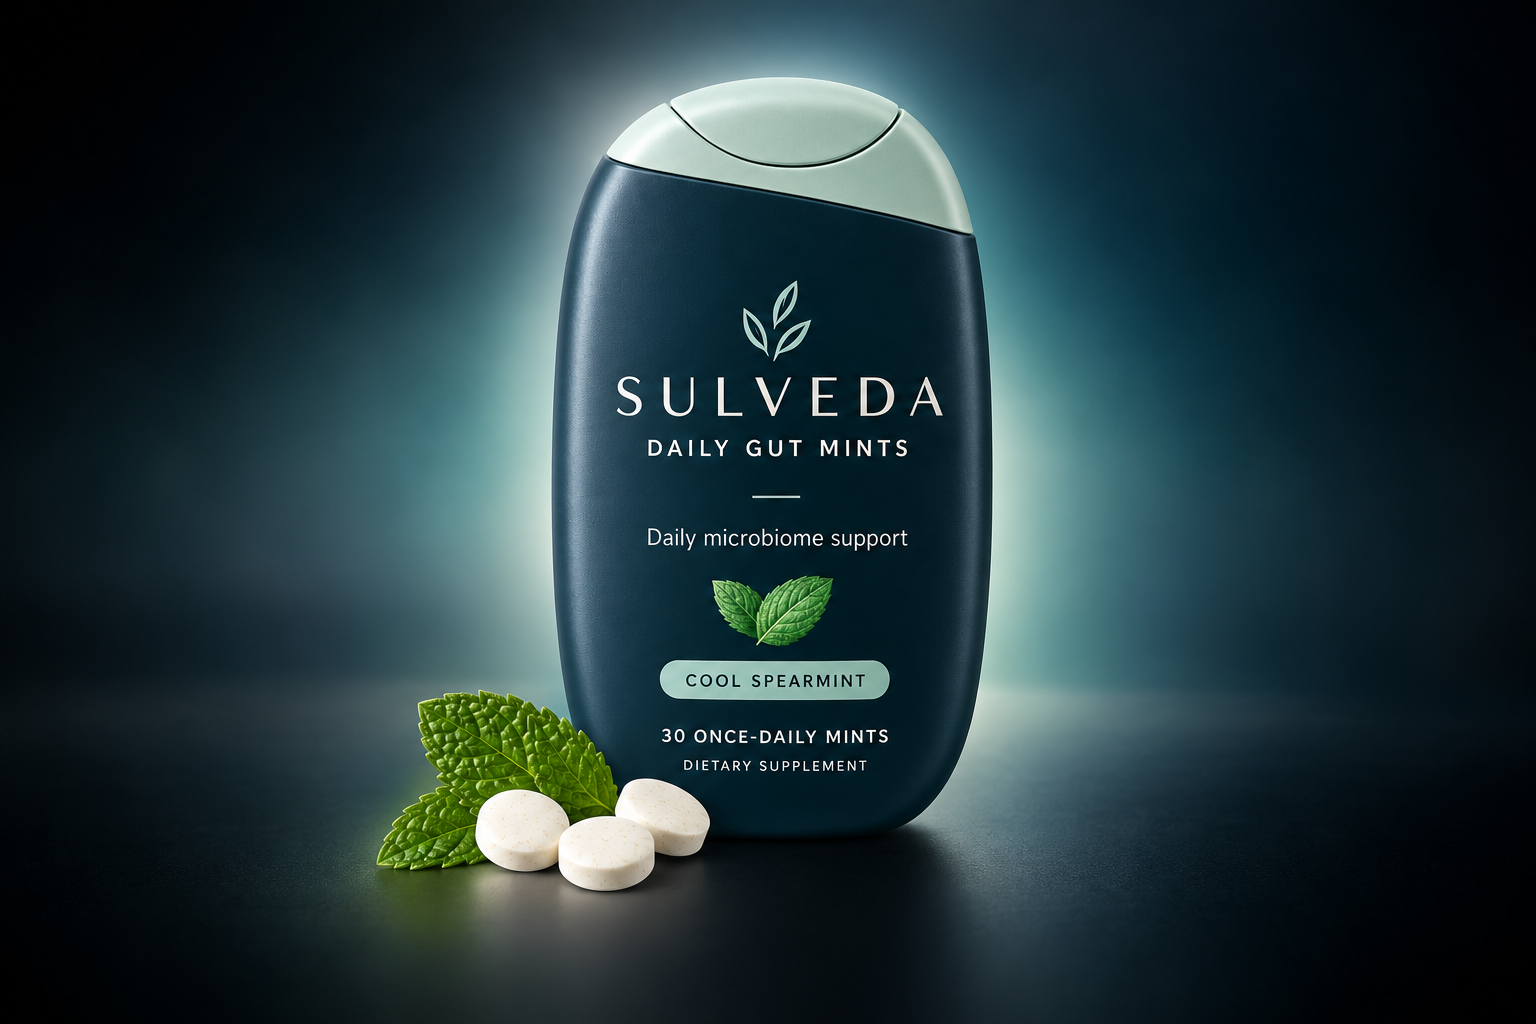
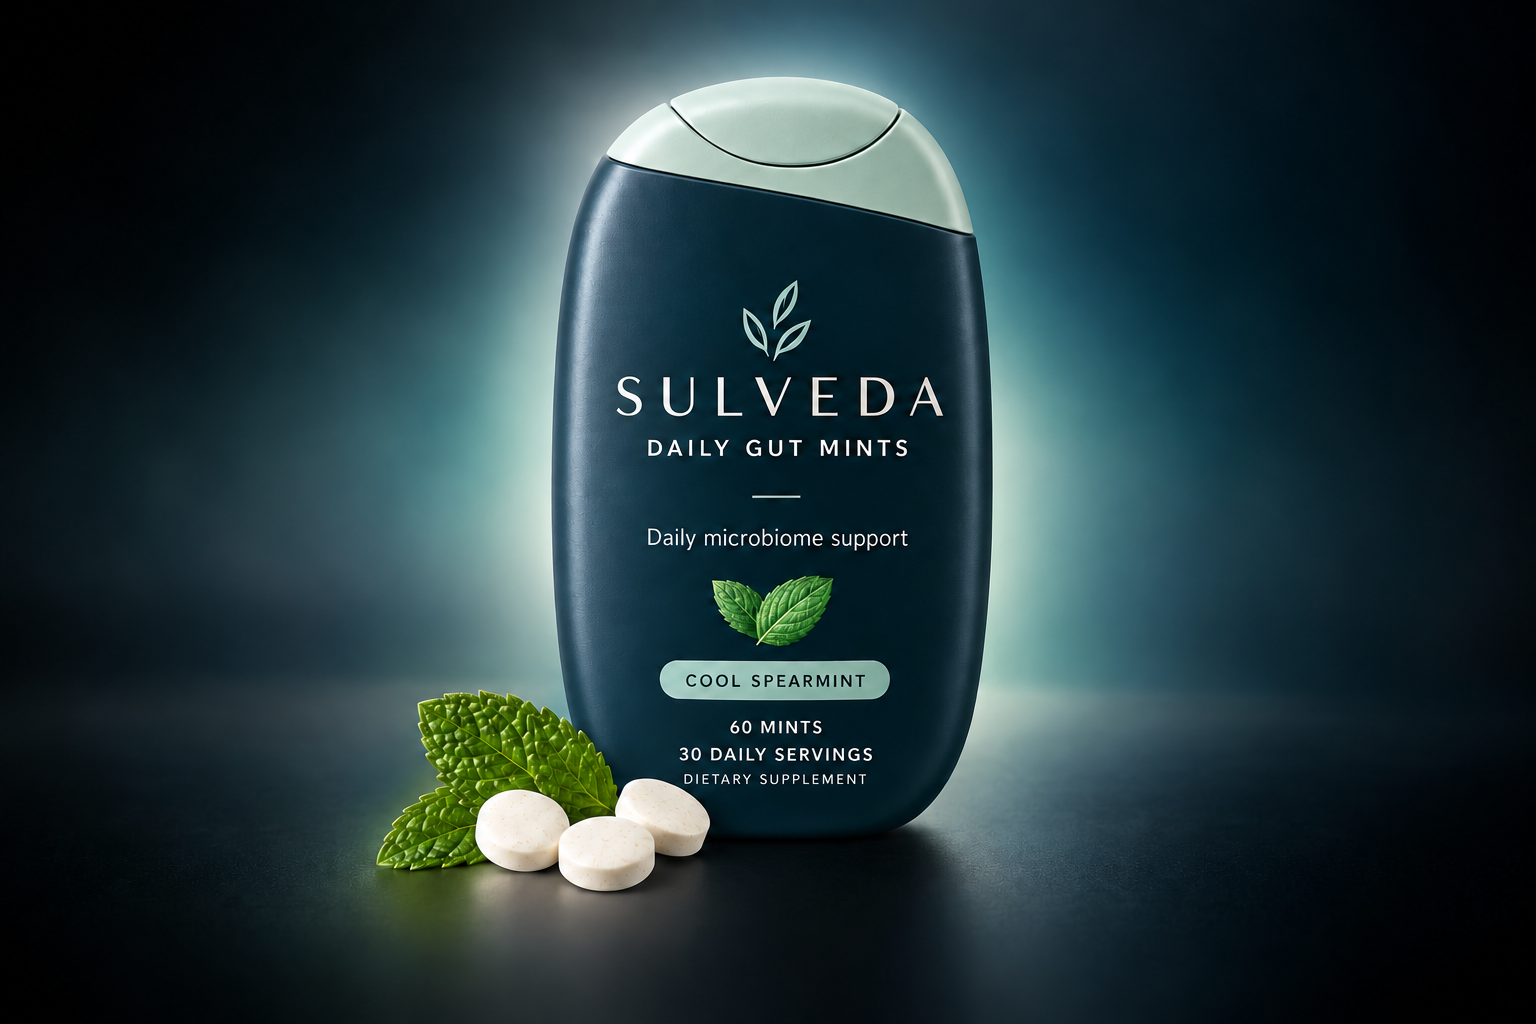
Update Daily Gut Mints to two-per-day serving

Changed region(s): [[0.25, 0.6875, 0.375, 0.8438], [0.4375, 0.6562, 0.5625, 0.7812], [0.4688, 0.5625, 0.5312, 0.625]]

diff --git a/index.html b/index.html
@@ -47,14 +47,14 @@
     <section class="hero" id="top">
       <div class="hero-copy reveal">
         <p class="eyebrow">The pocket-sized gut ritual</p>
-        <h1>A smarter gut habit.<br><em>One mint a day.</em></h1>
+        <h1>A smarter gut habit.<br><em>Two mints a day.</em></h1>
         <p class="hero-lede">Sulveda is developing a fresh-tasting daily mint around targeted microbiome science - designed for people who want gut support without another capsule, powder, or gummy.</p>
         <div class="hero-actions">
           <a class="button button-primary" href="#founders">Join the founding list</a>
           <a class="quiet-link" href="#product">Explore the concept <span aria-hidden="true">&darr;</span></a>
         </div>
         <div class="hero-details" aria-label="Product concept highlights">
-          <span>Once-daily concept</span>
+          <span>2-mint daily serving</span>
           <span>Cool Spearmint</span>
           <span>Pocket dispenser</span>
         </div>
@@ -84,10 +84,10 @@
         <article class="product-story reveal">
           <p class="product-kicker">Daily Gut Mints - Concept 02</p>
           <h3>The ease of a mint.<br>The discipline of a supplement.</h3>
-          <p>The lead concept is one small, swallowed, fast-dissolving tablet. It borrows the convenience and fresh-mouth reward of gum and functional pouches while preserving a path toward a complete, controlled gut-directed dose.</p>
+          <p>The lead concept is a two-mint daily serving of small, swallowed, fast-dissolving tablets. It borrows the convenience and fresh-mouth reward of gum and functional pouches while preserving a path toward a complete, controlled gut-directed dose.</p>
           <ul class="check-list">
-            <li><span>01</span> One clearly defined daily serving</li>
-            <li><span>02</span> One distinctive 30-count pocket dispenser</li>
+            <li><span>01</span> One clearly defined serving of two mints</li>
+            <li><span>02</span> One distinctive 60-count pocket dispenser</li>
             <li><span>03</span> A fresh-mouth experience that rewards the habit</li>
             <li><span>04</span> Targeted microbiome formulation direction</li>
           </ul>
@@ -96,8 +96,8 @@
         <aside class="ritual-card reveal">
           <p class="eyebrow">The daily experience</p>
           <div class="mint-orbit" aria-hidden="true"><i></i><span>S</span></div>
-          <div class="ritual-time"><strong>1</strong><span>mint to anchor a simple daily ritual</span></div>
-          <p>Open. Enjoy. Swallow. Keep moving.</p>
+          <div class="ritual-time"><strong>2</strong><span>mints to anchor a simple daily ritual</span></div>
+          <p>Open. Take two. Keep moving.</p>
         </aside>
       </div>
     </section>
@@ -114,7 +114,7 @@
           <article><span>01</span><strong>See it</strong><p>A distinctive dispenser stands apart at checkout without looking like candy.</p></article>
           <article><span>02</span><strong>Try it</strong><p>Fresh spearmint gives the ritual an immediate sensory reward.</p></article>
           <article><span>03</span><strong>Carry it</strong><p>The pocket format stays visible in the moments when habits happen.</p></article>
-          <article><span>04</span><strong>Repeat it</strong><p>One mint each day creates a clear replenishment rhythm.</p></article>
+          <article><span>04</span><strong>Repeat it</strong><p>Two mints each day create a clear replenishment rhythm.</p></article>
         </div>
       </div>
     </section>
@@ -128,10 +128,10 @@
       <div class="dispenser-spec reveal">
         <div class="spec-visual" aria-hidden="true"><span>S</span></div>
         <dl>
-          <div><dt>Count</dt><dd>30 once-daily mints</dd></div>
+          <div><dt>Count</dt><dd>60 mints / 30 daily servings</dd></div>
           <div><dt>Working flavor</dt><dd>Cool Spearmint</dd></div>
           <div><dt>Position</dt><dd>Daily microbiome support</dd></div>
-          <div><dt>Format</dt><dd>Swallowed fast-dissolving tablet</dd></div>
+          <div><dt>Format</dt><dd>Two swallowed fast-dissolving tablets daily</dd></div>
           <div><dt>Retail home</dt><dd>Premium mint and wellness checkout</dd></div>
         </dl>
       </div>
@@ -174,12 +174,12 @@
         <div class="membership-intro reveal">
           <p class="eyebrow">A simple replenishment model</p>
           <h2>One dispenser.<br><em>One monthly rhythm.</em></h2>
-          <p>Pricing is intentionally held until formulation, cost, retail margin, and fulfillment are approved. The proposed subscription experience remains simple: receive one fresh 30-count dispenser on the cadence you choose.</p>
+          <p>Pricing is intentionally held until formulation, cost, retail margin, and fulfillment are approved. The proposed subscription experience remains simple: receive one fresh 60-count dispenser with 30 two-mint daily servings on the cadence you choose.</p>
         </div>
 
         <div class="membership-model reveal">
-          <article><span>01</span><h3>Discover</h3><p>Purchase one 30-count dispenser with no automatic renewal.</p></article>
-          <article class="featured"><span>02</span><h3>Subscribe</h3><p>Receive one new 30-count dispenser every 30 days with skip, pause, and cancel controls.</p></article>
+          <article><span>01</span><h3>Discover</h3><p>Purchase one 60-count dispenser with no automatic renewal.</p></article>
+          <article class="featured"><span>02</span><h3>Subscribe</h3><p>Receive one new 60-count dispenser every 30 days with skip, pause, and cancel controls.</p></article>
           <article><span>03</span><h3>Stay stocked</h3><p>Choose a 90-day cadence for fewer deliveries while keeping the same daily ritual.</p></article>
         </div>
 
